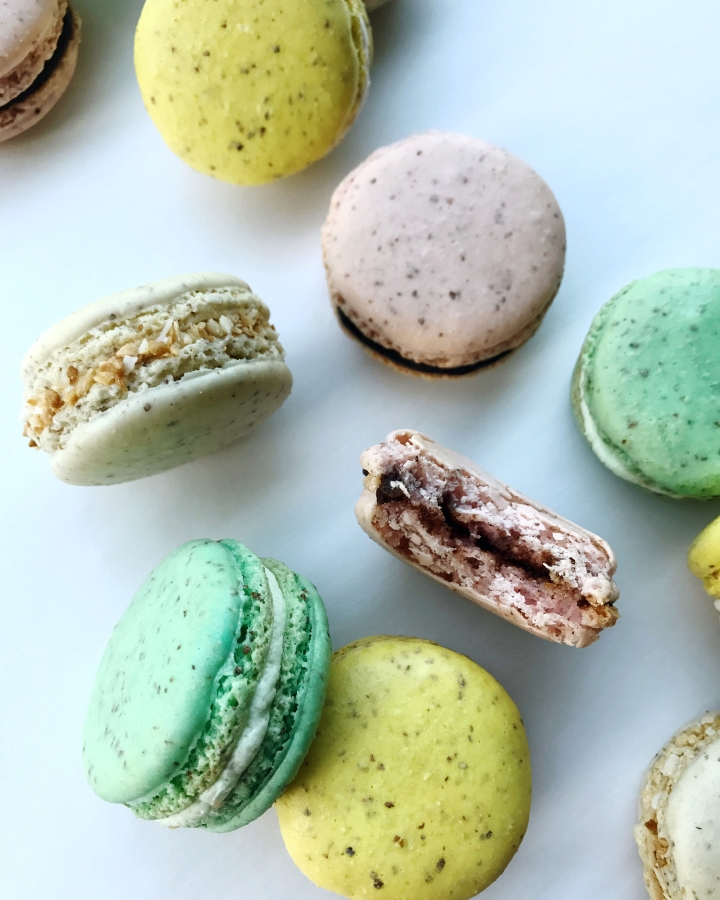
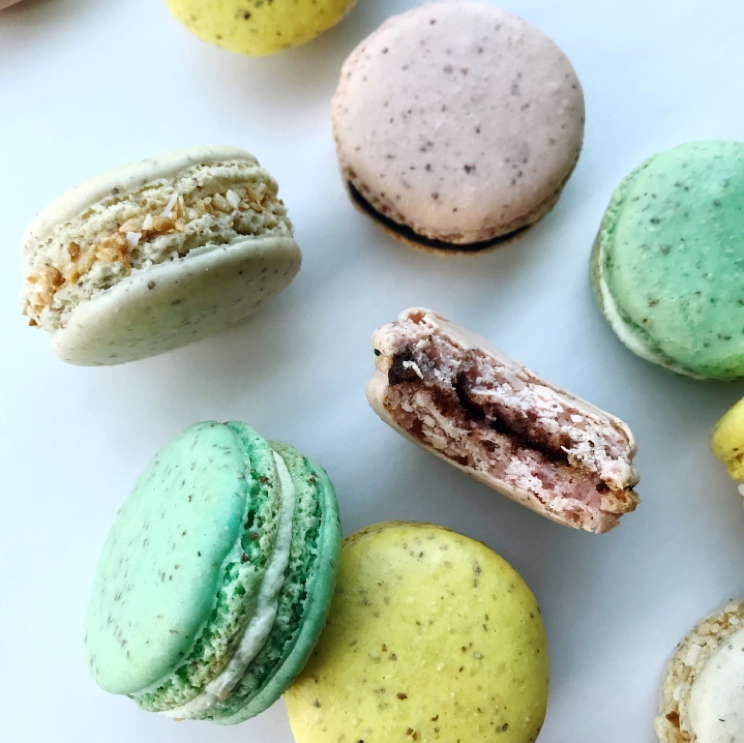
positioned GalleryLg imgs at laptop viewpoint

diff --git a/public/master.css b/public/master.css
@@ -546,9 +546,10 @@ img {
 }
 @media (min-width: 48em) {
   .ContentContainer {
-    margin: 10rem 6rem 0 6rem;
+    margin: 7rem 6rem 0 6rem;
     padding: 6rem;
     max-width: 375px;
+    min-width: 375px;
   }
 }
 @media (min-width: 62em) {
@@ -652,39 +653,40 @@ button:hover {
     position: absolute;
   }
   .GalleryLgItem1 {
-    width: 15%;
-    top: 21%;
-    left: 3%;
+    width: 25%;
+    top: -2%;
+    left: 39%;
   }
   .GalleryLgItem2 {
-    width: 21%;
-    top: -2%;
-    left: 22%;
+    width: 22%;
+    top: 8%;
+    left: 70%;
   }
   .GalleryLgItem3 {
-    width: 10%;
-    top: 13%;
-    left: 47%;
+    width: 29%;
+    top: 49%;
+    left: 68%;
   }
   .GalleryLgItem4 {
-    width: 15%;
-    top: 58%;
-    left: -1%;
+    width: 31%;
+    top: 64%;
+    left: 27%;
+    z-index: 9;
   }
   .GalleryLgItem5 {
-    width: 21%;
-    top: 46%;
-    left: 42%;
+    width: 32%;
+    top: 43%;
+    left: -2%;
   }
   .GalleryLgItem6 {
-    width: 21%;
-    top: 71%;
-    left: 13%;
+    width: 25%;
+    top: 6%;
+    left: 7%;
   }
   .GalleryLgItem7 {
-    width: 10%;
-    top: 44%;
-    left: 25%;
+    width: 16%;
+    top: 36%;
+    left: 42%;
   }
 }
 footer {
